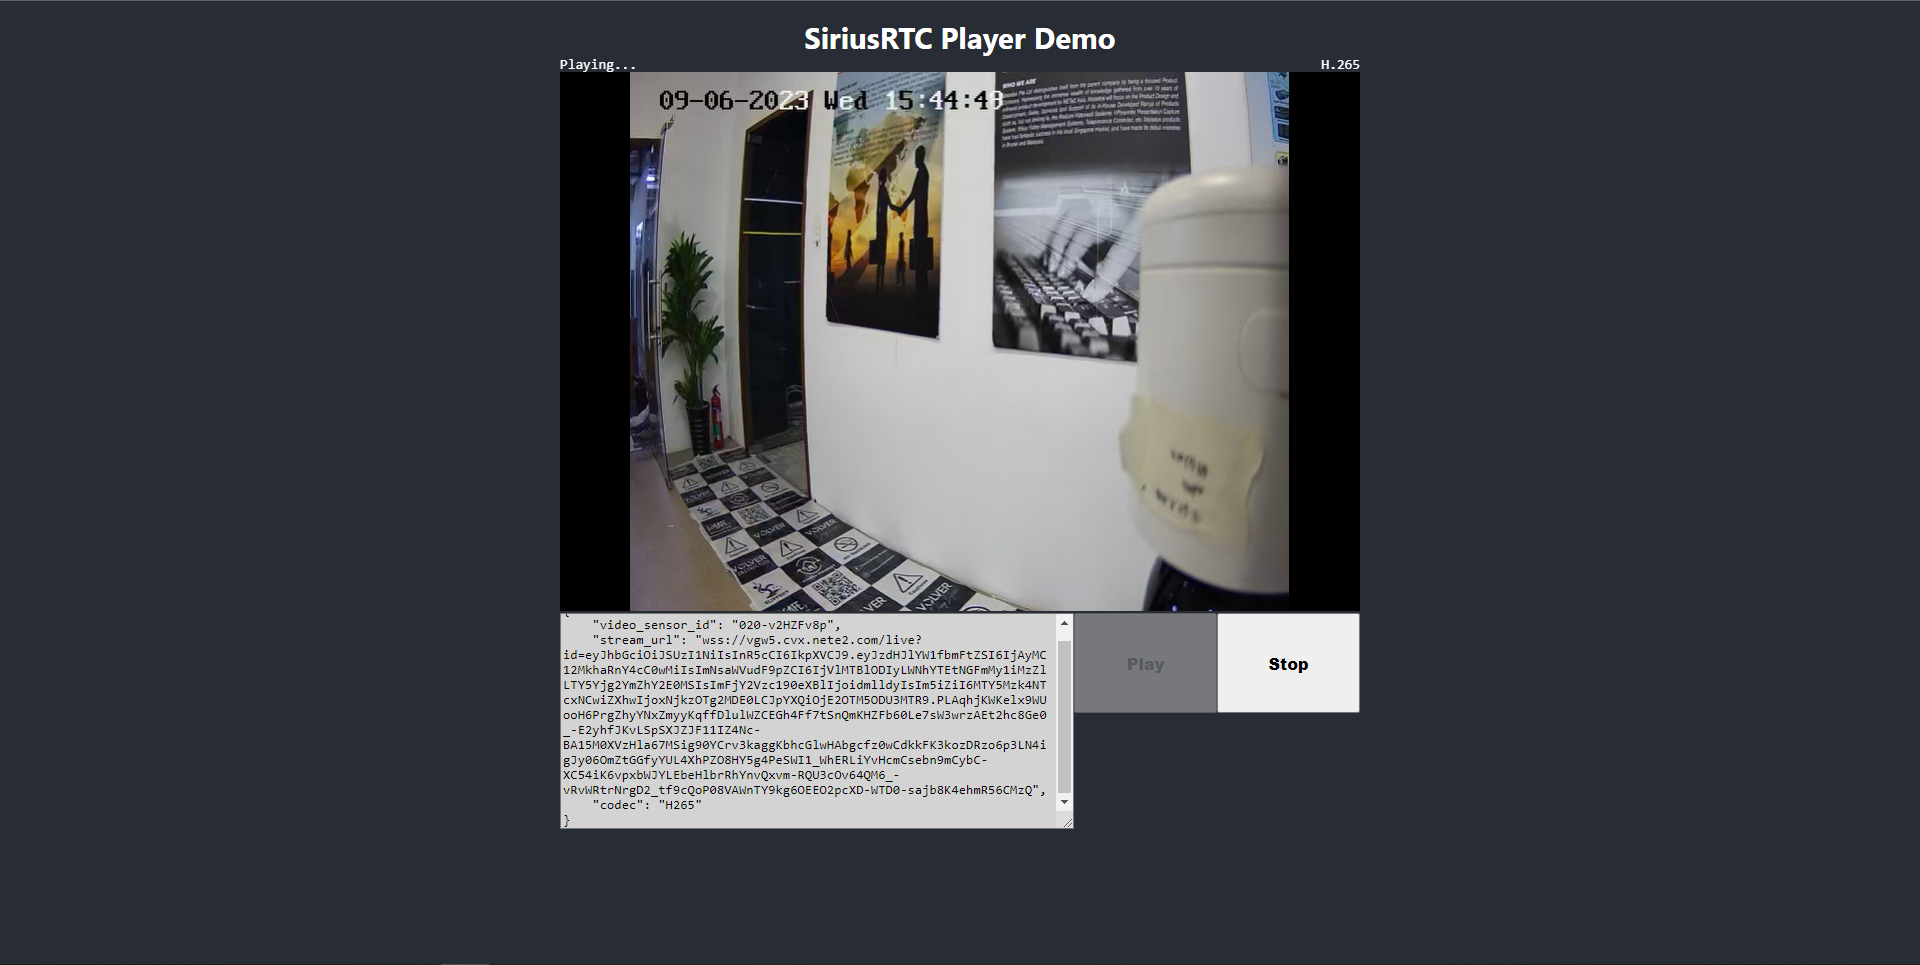
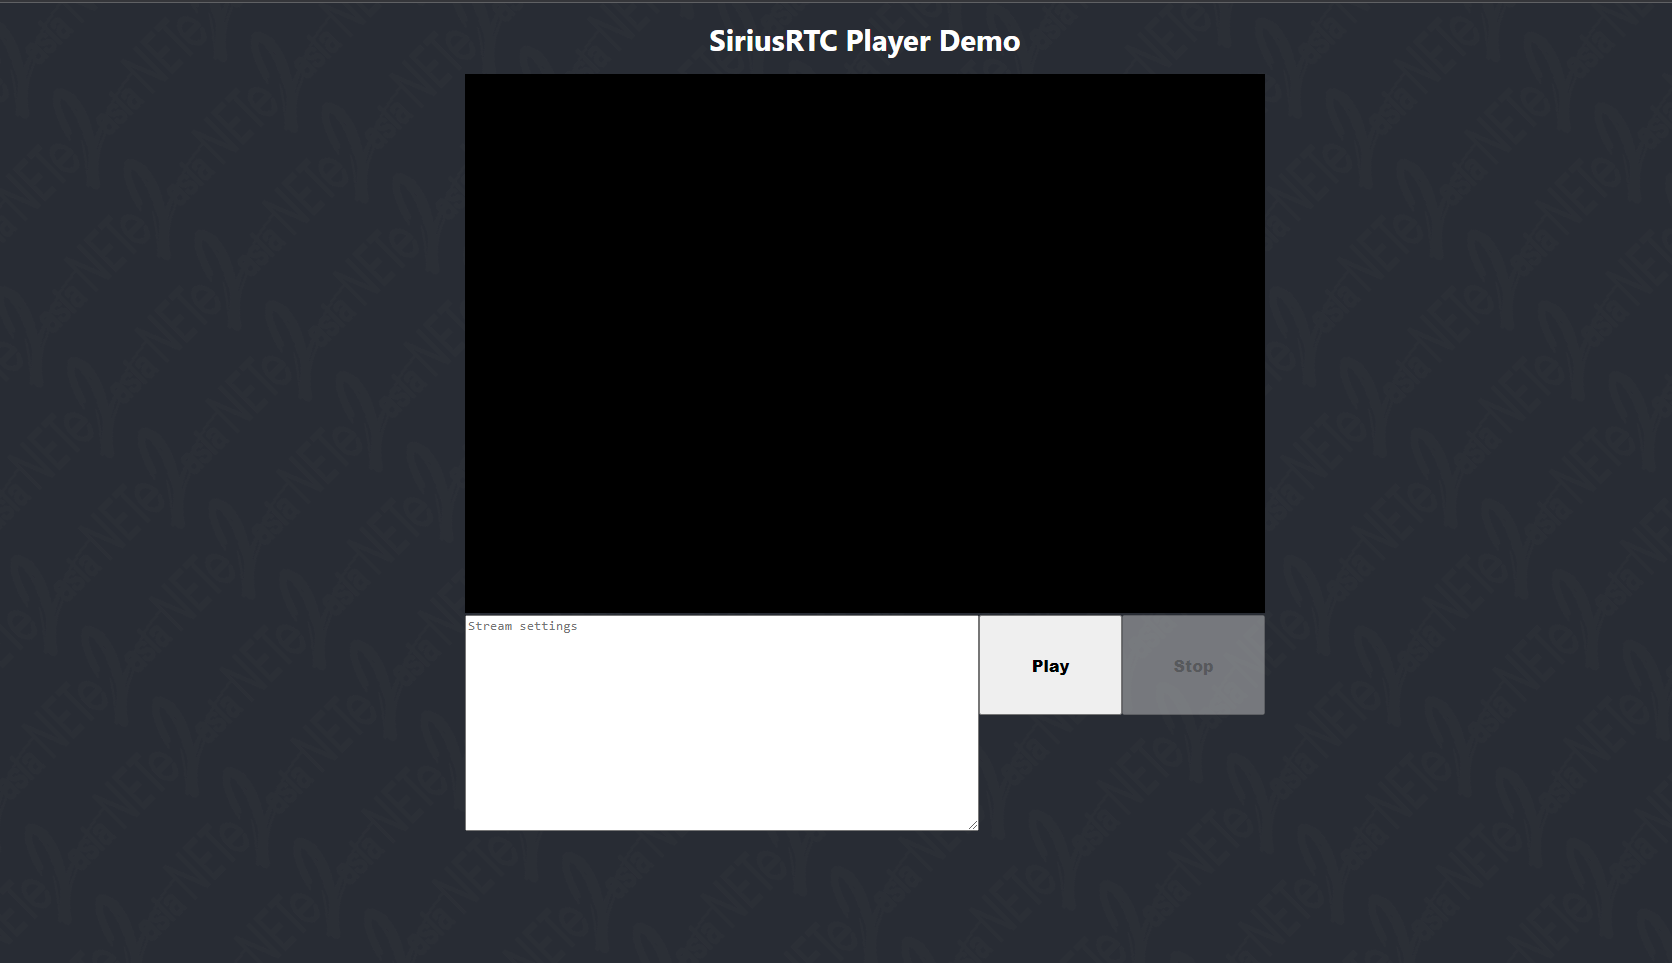
Refactor codes

diff --git a/src/App.js b/src/App.js
@@ -56,11 +56,11 @@ function App() {
       let info = JSON.parse(data);
       console.log("StreamClosed %o", info);
       if (info?.message) {
-        setIsPlay(false);
         setStatusText(info?.code + ", " + info?.message);
       } else {
-        setStatusText(info?.message);
+        setStatusText("");
       }
+      setIsPlay(false);
     });
 
     stream.play();
@@ -76,6 +76,7 @@ function App() {
 
   return (
     <div className="App">
+      <div className="nete2-overlay"></div>
       <h4 className="title">SiriusRTC Player Demo</h4>
 
       <div className="view-container">
@@ -84,7 +85,7 @@ function App() {
         <video className="mvideo" ref={videoElementRef} autoPlay muted />
         {
           statusText === 'Connecting...' &&
-          <div class="lds-dual-ring video-loading"></div>
+          <div className="lds-dual-ring video-loading"></div>
         }
 
         <div className="view-group">

diff --git a/public/index.html b/public/index.html
@@ -5,10 +5,7 @@
     <link rel="icon" href="%PUBLIC_URL%/favicon.ico" />
     <meta name="viewport" content="width=device-width, initial-scale=1" />
     <meta name="theme-color" content="#000000" />
-    <meta
-      name="description"
-      content="Web site created using create-react-app"
-    />
+    <meta name="description" content="Web site created using create-react-app" />
     <link rel="apple-touch-icon" href="%PUBLIC_URL%/logo192.png" />
     <!--
       manifest.json provides metadata used when your web app is installed on a
@@ -24,7 +21,7 @@
       work correctly both with client-side routing and a non-root public URL.
       Learn how to configure a non-root public URL by running `npm run build`.
     -->
-    <title>React App</title>
+    <title>SiriusRTC PlayerDemo</title>
   </head>
   <body>
     <noscript>You need to enable JavaScript to run this app.</noscript>

diff --git a/src/index.css b/src/index.css
@@ -107,3 +107,26 @@ body {
   }
 }
 /* ------------------------------------------------ */
+
+.nete2-overlay {
+  width: 100%;
+  height: 100%;
+  z-index: -1;
+  position: absolute;
+  display: inline-block;
+  overflow: hidden;
+}
+
+.nete2-overlay::before {
+  content: "";
+  position: absolute;
+  z-index: -2;
+  width: 300%;
+  height: 300%;
+  left: 20%;
+  top: 50%;
+  background: url(./nete2asia.png);
+  background-size: 180px 100px;
+  transform: translate(-50%, -50%) rotate(-45deg);
+  opacity: 0.2;
+}
